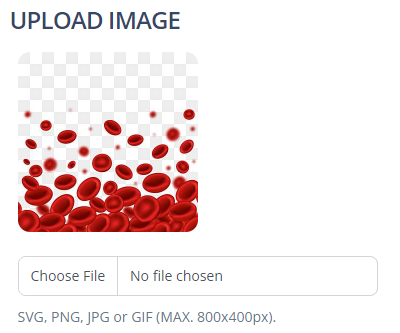
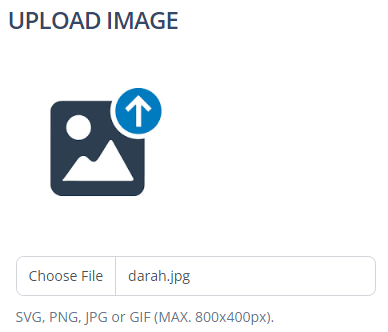
style: update text and image

diff --git a/app/templates/main.html b/app/templates/main.html
@@ -9,7 +9,7 @@
 
     clearImage = () => {
         document.getElementById("upload-img").value = null;
-        document.getElementById("img-prev").src = "../../static/img/bg-merah.jpg";
+        document.getElementById("img-prev").src = "../../static/img/upload.png";
         document.getElementById("img-prev").dataset.trigger = "";
         document.getElementById("upload-form").reset();
         $('#pieChart').hide();
@@ -42,7 +42,7 @@
 
                     <div class="card-body pt-2">
                         <p class="card-description mb-4">
-                            <img src="../../static/img/bg-merah.jpg" alt="image-preview"
+                            <img src="../../static/img/upload.png" alt="image-preview"
                                 class="img-fluid border-radius-lg" id="img-prev" data-trigger="" width="50%">
 
                         <form method="POST" enctype="multipart/form-data" id="upload-form">
@@ -84,7 +84,7 @@
                             </div>
                         </div>
                         <div class="modal-footer">
-                            <button type="button" class="btn btn-primary" id="crop">Crop</button>
+                            <button type="button" class="btn" style="background-color: #4586F6; color: white;" id="crop">Crop</button>
                         </div>
                     </div>
                 </div>
@@ -109,7 +109,7 @@
             <div class="col-lg-8 col-12">
                 <div class="card">
                     <div class="card-header">
-                        <h4 class="text-uppercase">Grafik</h4>
+                        <h4 class="text-uppercase">Percentage Graph</h4>
                     </div>
 
                     <div class="card-body d-flex justify-content-center">
@@ -146,7 +146,7 @@
                 1. Download the material from <a href="../../static/img/darah.jpg" class="text-danger"
                     download="bahan">this LINK</a> <br>
                 2. Click "Choose File" and select the image you want to crop. Then, click "Open". <br>
-                <img src="../static/img/tutorial/1.png" alt="" width="300"> <br>
+                <img src="../static/img/upload.png" alt="" width="200"> <br>
                 3. Adjust the dimensions of the image cropping by adjusting the cropping box or entering the dimensions
                 manually. <br>
                 4. Once satisfied with the selection, press "<strong>CROP</strong>" to cut the image according to the
